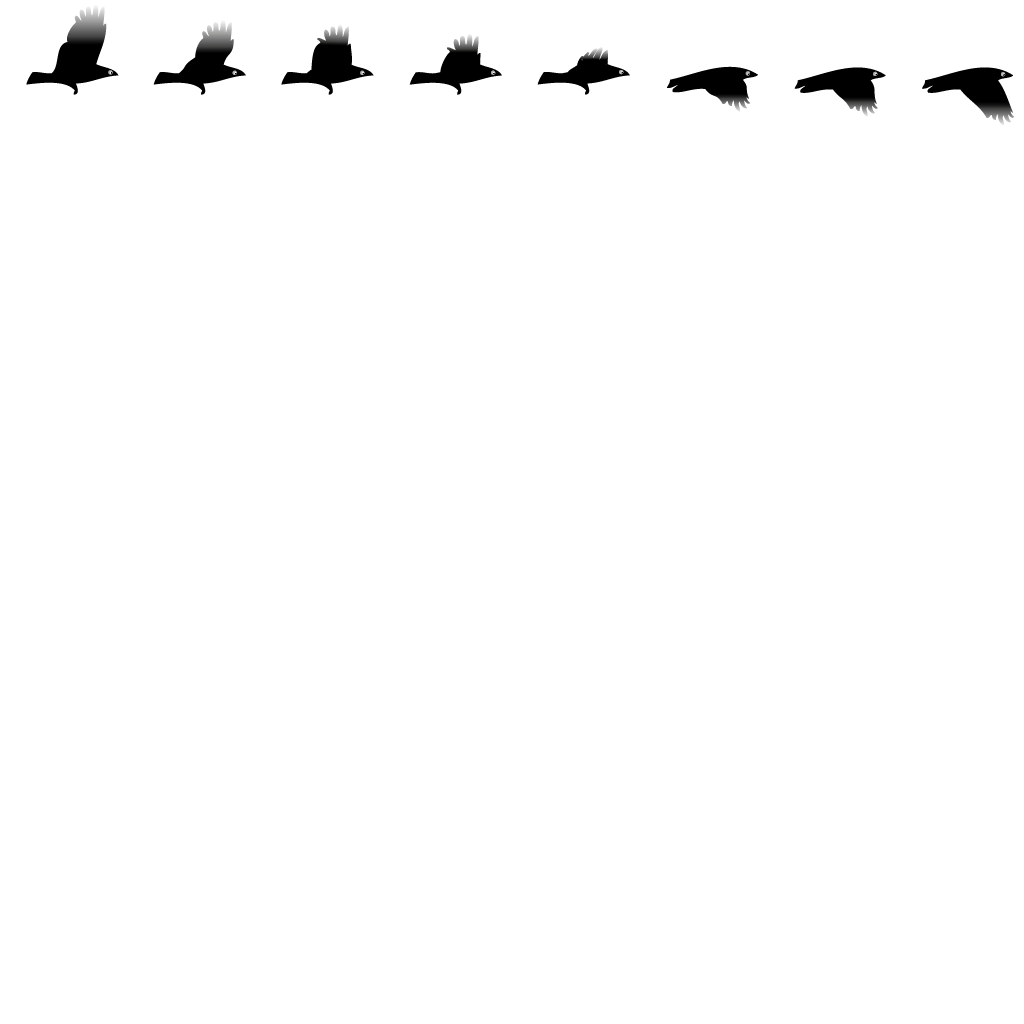
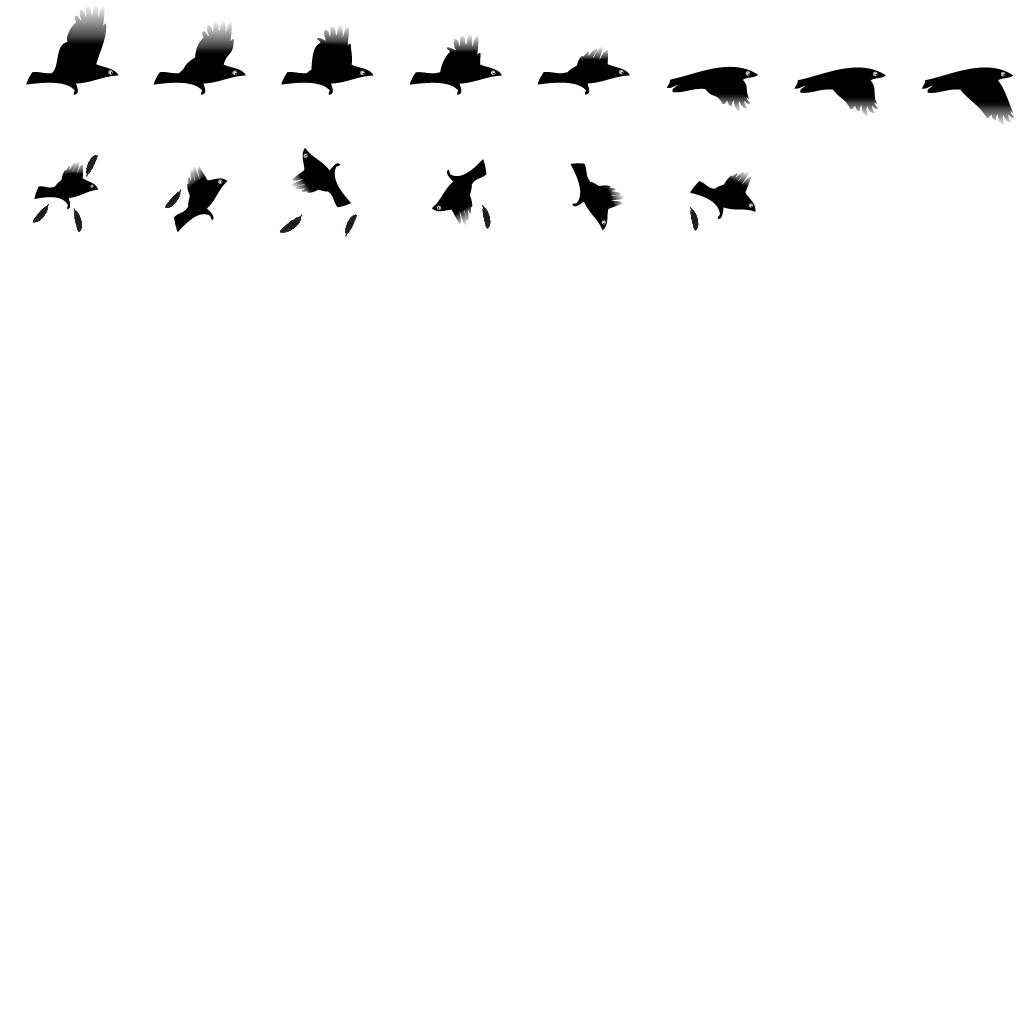
Kage dying animation

diff --git a/html5/src/game.c b/html5/src/game.c
@@ -303,7 +303,7 @@ void GameStateUpdate(GameState* game_state, GameInput game_input)
         if(game_state->crap_state == CRAP_NONE) {
             if(game_input.event_type == GAME_INPUT_EVENT_SWIPE_LEFT) {
                 game_state->crap_state = CRAP_FALLING;
-                *crap_entity = (const Entity){&g_crap_sprites[0], player_entity->x, player_entity->y, ENTITY_TYPE_CRAP};
+                *crap_entity = (const Entity){&g_crap_sprites[rand() % 3], player_entity->x, player_entity->y, ENTITY_TYPE_CRAP};
             }
         }
         
@@ -353,8 +353,9 @@ void GameStateUpdate(GameState* game_state, GameInput game_input)
             if(obstacle->type == ENTITY_TYPE_OBSTACLE) {
                 int obstacle_x = obstacle->x - obstacle_plane->offset_x;
                 int obstacle_y = obstacle->y - obstacle_plane->offset_y;
-                if(abs(player_entity->x - obstacle_x) < 250 && abs(player_entity->y - obstacle_y) < 20) {
+                if(abs(player_entity->x - obstacle_x) < 300 && abs(player_entity->y - obstacle_y) < 20) {
                     game_state->play_state = PLAY_STATE_DYING;
+                    game_state->player_kf_idx = 0;
                 }
             }
         }
@@ -371,7 +372,22 @@ void GameStateUpdate(GameState* game_state, GameInput game_input)
         }
     }
     else if(game_state->play_state == PLAY_STATE_DYING) {
-        game_state->play_state = PLAY_STATE_STOP_SPLASH;
+        EntityPlane* player_plane = &game_state->planes[3];
+        Entity* player_entity = &player_plane->entities[0];
+
+        player_entity->sprite = g_kage_dying_anim.key_frames[game_state->player_kf_idx].sprite;
+        game_state->player_kf_duration++;
+        if(game_state->player_kf_duration >= g_kage_dying_anim.key_frames[game_state->player_kf_idx].duration) {
+            game_state->player_kf_idx++;
+            game_state->player_kf_duration = 0;
+            if(game_state->player_kf_idx >= g_kage_dying_anim.n_keyframes) {
+                game_state->player_kf_idx = 0;
+            }
+        }
+        player_entity->y -= 20;
+        if(player_entity->y < -800) {
+            game_state->play_state = PLAY_STATE_STOP_SPLASH;
+        }
     }
     else if(game_state->play_state == PLAY_STATE_STOP_SPLASH) {
         EntityPlane* splash_plane = &game_state->planes[0];

diff --git a/html5/src/content.c b/html5/src/content.c
@@ -72,7 +72,7 @@ Sprite g_kage_sprites[8] = {
     }
 };
 
-Sprite g_crap_sprites[2] = {
+Sprite g_kage_dying_sprites[8] = {
     {
         (000.0f + 0.5f)/1024.0f, (128.0f + 0.5f)/1024.0f,
         (127.0f + 0.5f)/1024.0f, (255.0f + 0.5f)/1024.0f,
@@ -81,6 +81,44 @@ Sprite g_crap_sprites[2] = {
     {
         (128.0f + 0.5f)/1024.0f, (128.0f + 0.5f)/1024.0f,
         (255.0f + 0.5f)/1024.0f, (255.0f + 0.5f)/1024.0f,
+        0.25f, 0.25f,
+    },
+    {
+        (256.0f + 0.5f)/1024.0f, (128.0f + 0.5f)/1024.0f,
+        (383.0f + 0.5f)/1024.0f, (255.0f + 0.5f)/1024.0f,
+        0.25f, 0.25f,
+    },
+    {
+        (384.0f + 0.5f)/1024.0f, (128.0f + 0.5f)/1024.0f,
+        (511.0f + 0.5f)/1024.0f, (255.0f + 0.5f)/1024.0f,
+        0.25f, 0.25f,
+    },
+    {
+        (512.0f + 0.5f)/1024.0f, (128.0f + 0.5f)/1024.0f,
+        (639.0f + 0.5f)/1024.0f, (255.0f + 0.5f)/1024.0f,
+        0.25f, 0.25f,
+    },
+    {
+        (640.0f + 0.5f)/1024.0f, (128.0f + 0.5f)/1024.0f,
+        (767.0f + 0.5f)/1024.0f, (255.0f + 0.5f)/1024.0f,
+        0.25f, 0.25f,
+    }
+};
+
+Sprite g_crap_sprites[3] = {
+    {
+        (768.0f + 0.5f)/1024.0f, (128.0f + 0.5f)/1024.0f,
+        (895.0f + 0.5f)/1024.0f, (255.0f + 0.5f)/1024.0f,
+        0.25f, 0.25f,
+    },
+    {
+        (896.0f + 0.5f)/1024.0f, (128.0f + 0.5f)/1024.0f,
+        (1023.0f + 0.5f)/1024.0f, (255.0f + 0.5f)/1024.0f,
+        0.25f, 0.25f,
+    },
+    {
+        (000.0f + 0.5f)/1024.0f, (256.0f + 0.5f)/1024.0f,
+        (127.0f + 0.5f)/1024.0f, (383.0f + 0.5f)/1024.0f,
         0.25f, 0.25f,
     }
 };
@@ -269,4 +307,16 @@ AnimSeq g_kage_anim = {
         {&g_kage_sprites[0], 2},
     },
     16
+};
+
+AnimSeq g_kage_dying_anim = {
+    {
+        {&g_kage_dying_sprites[0], 4},
+        {&g_kage_dying_sprites[1], 4},
+        {&g_kage_dying_sprites[2], 4},
+        {&g_kage_dying_sprites[3], 4},
+        {&g_kage_dying_sprites[4], 4},
+        {&g_kage_dying_sprites[5], 4},
+    },
+    6
 };

diff --git a/html5/inc/content.h b/html5/inc/content.h
@@ -29,12 +29,14 @@ extern Sprite g_cloud_sprites[4];
 extern Sprite g_bush_sprites[4];
 extern Sprite g_building_sprites[8];
 extern Sprite g_kage_sprites[8];
-extern Sprite g_crap_sprites[2];
+extern Sprite g_crap_sprites[3];
 extern Sprite g_target_sprites[8];
 extern Sprite g_food_sprites[4];
 extern Sprite g_obstacle_sprites[1];
 extern Sprite g_stop_splash_sprite;
+extern Sprite g_kage_dying_sprites[8];
 
 extern AnimSeq g_kage_anim;
+extern AnimSeq g_kage_dying_anim;
 
 #endif

diff --git a/html5/src/audio.c b/html5/src/audio.c
@@ -40,7 +40,7 @@ int AudioInit(GameState* game_state)
         return 1;
     }
     game_state->al_background_buffer = wavBufferData("sky_high.wav");
-    game_state->al_background_source = alPlay(game_state->al_background_buffer, AL_PLAY_INFINITE);
+    // game_state->al_background_source = alPlay(game_state->al_background_buffer, AL_PLAY_INFINITE);
     LOGI("Audio init done.\n");
     return 0;
 }
